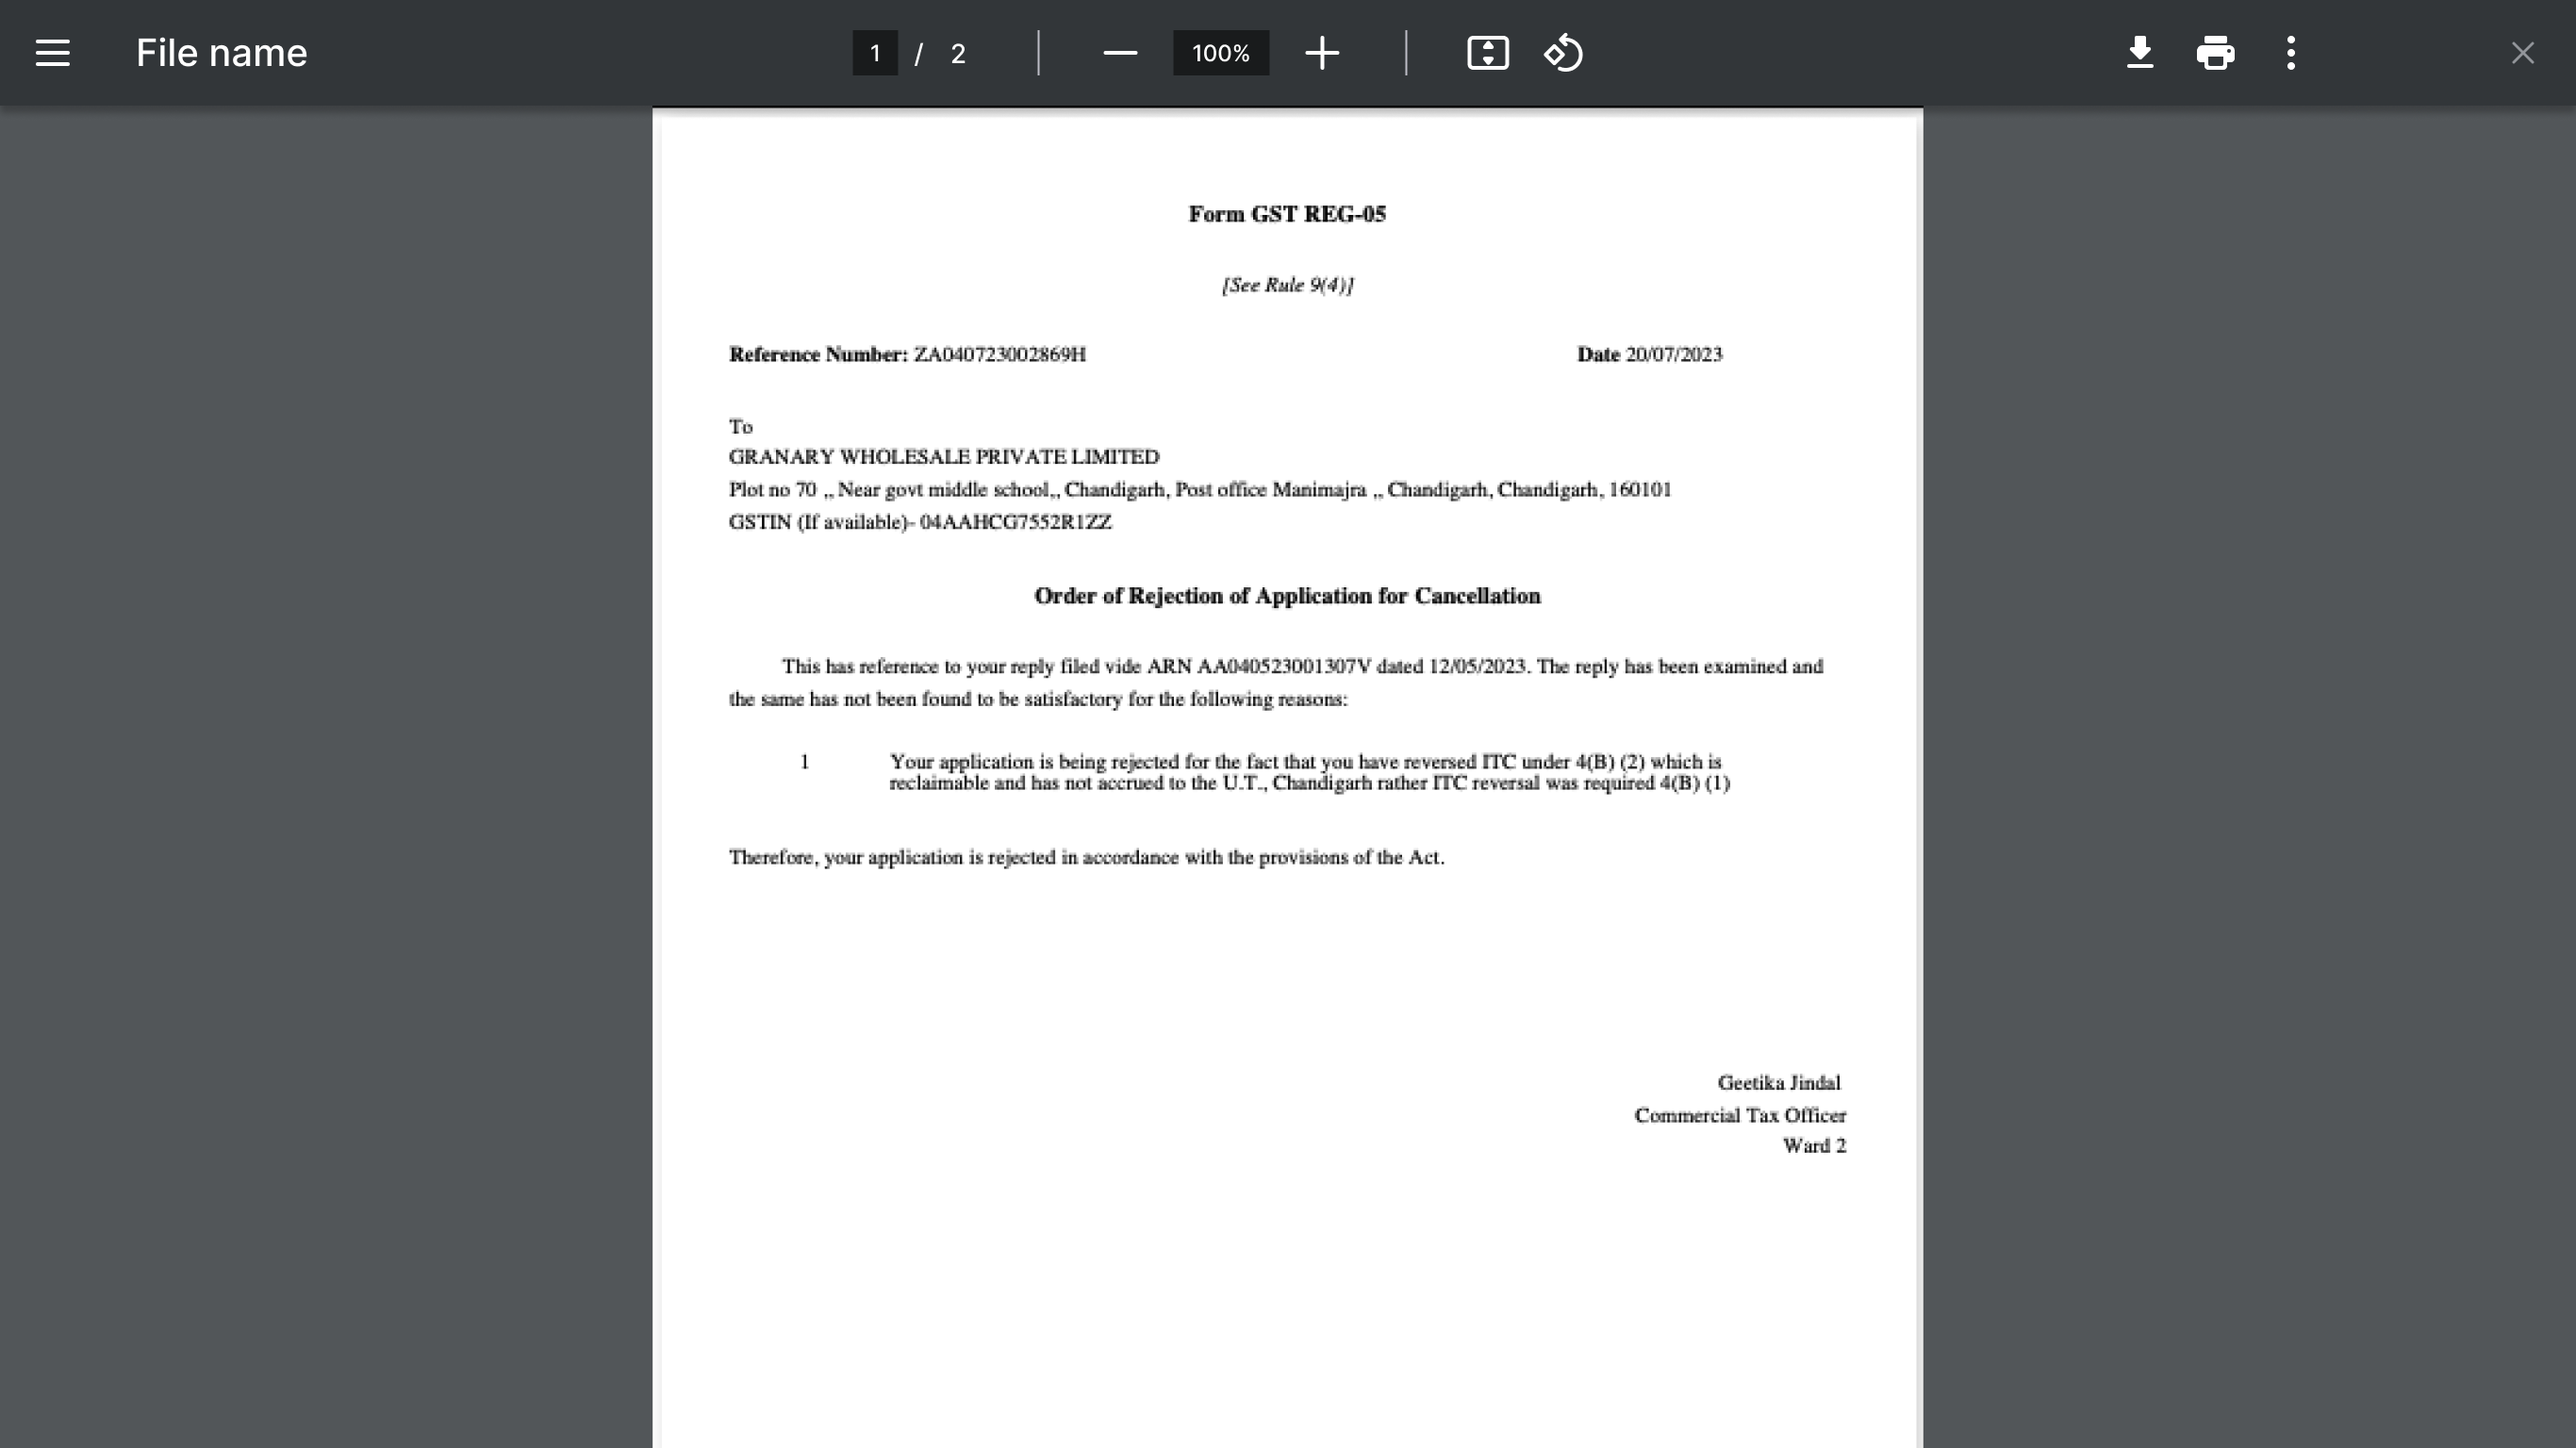
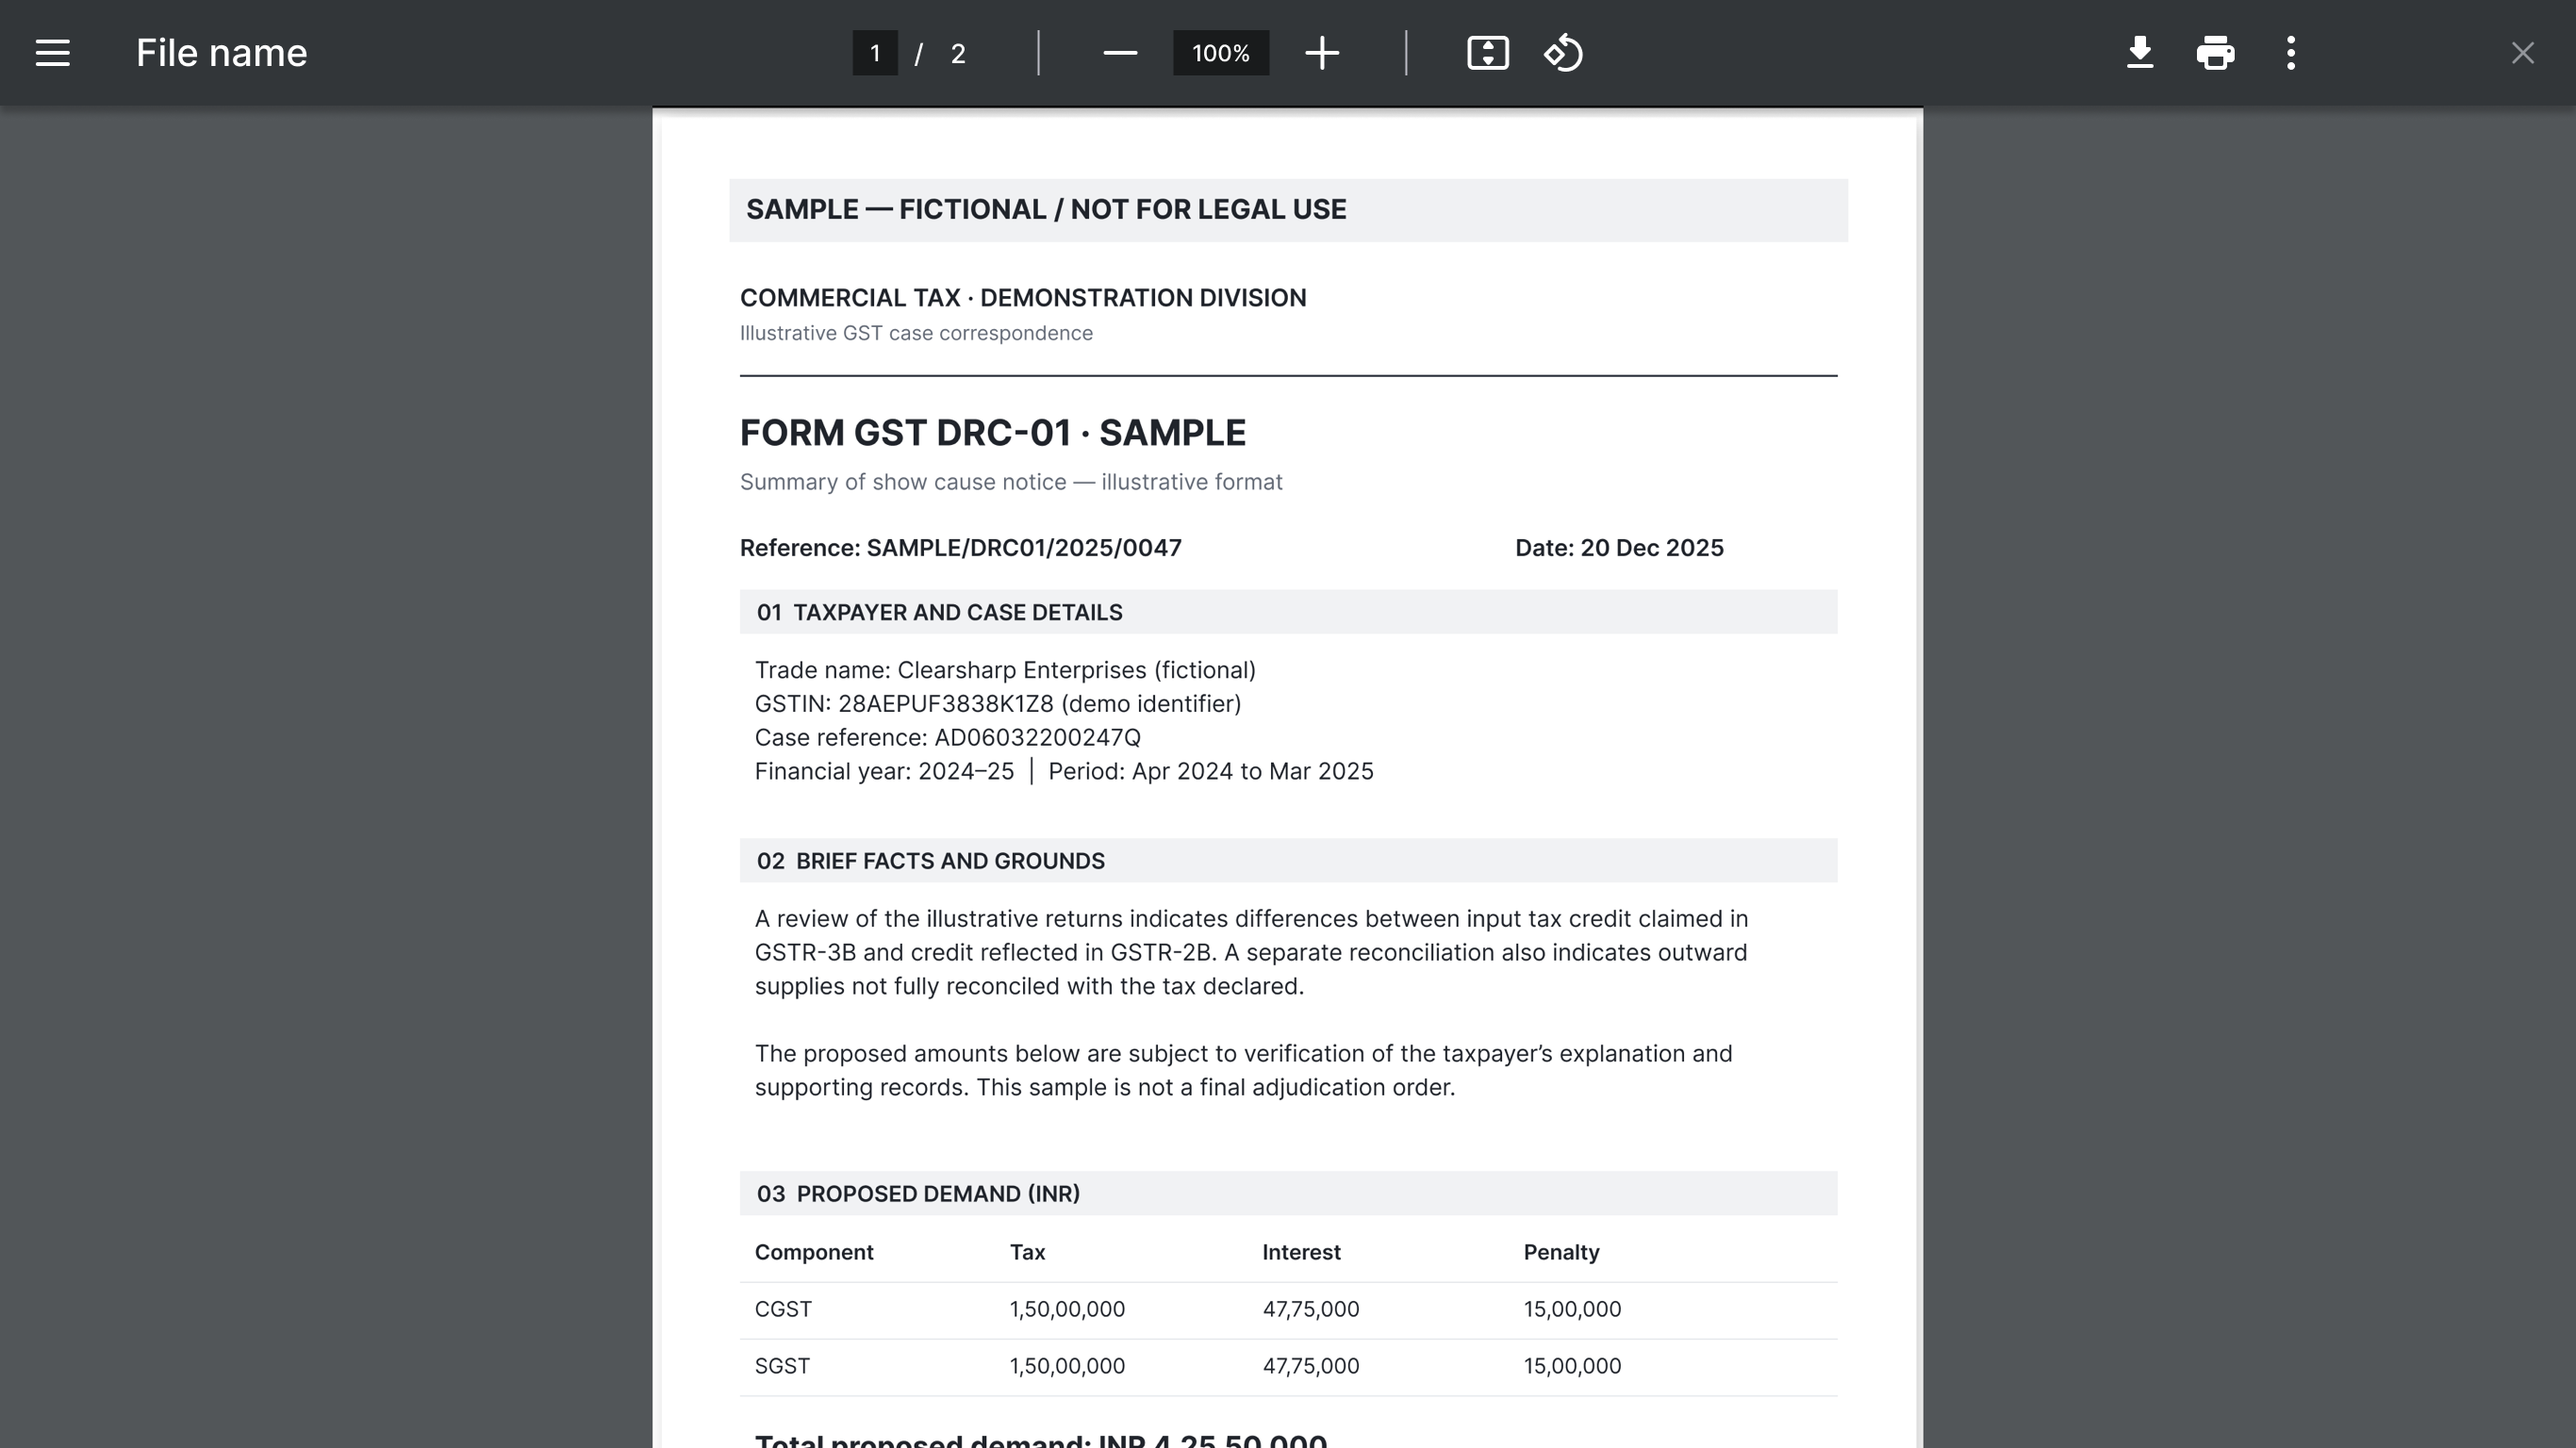
Notice Tracker: animated placement states in lightbox, DRC-01 sample PDF, drop placement tags
- Lightbox plays multi-state placements in place (one item per placement) with a layered cross-fade
- Captions use the full image width and balance when they wrap
- Remove status tags from the AI placement tiles; caption frames them as iterations
- Tile 5 verdict; AI sequence PDF frame now shows the 2025 sample DRC-01

diff --git a/src/components/site/image-lightbox.tsx b/src/components/site/image-lightbox.tsx
@@ -21,6 +21,11 @@ import { useEffect, useRef, useState, type ReactNode } from "react";
 const SWIPE_THRESHOLD = 60;
 const SWIPE_VERT_BIAS = 1.5;
 
+// How long each step of an animated frame stays on screen.
+const STEP_MS = 2800;
+
+export type FrameStep = { src: string; label: string; caption?: string };
+
 type ImageLightboxProps = {
   open: boolean;
   onOpenChange: (open: boolean) => void;
@@ -35,6 +40,11 @@ type ImageLightboxProps = {
   // step through. Falls back to the shared caption when a frame has none.
   captions?: string[];
   initialIndex?: number;
+  // Optional: some frames are a short flow (click, wait, read) rather
+  // than one screen. Give that frame a list of steps and it plays them in
+  // place, looping on its own. It still counts as one item for the
+  // arrows and dots.
+  steps?: (FrameStep[] | undefined)[];
   // Optional: short label used for the (visually hidden) dialog title.
   // Required for accessibility; falls back to "Image preview".
   title?: string;
@@ -51,6 +61,7 @@ export function ImageLightbox({
   caption: sharedCaption,
   captions,
   initialIndex = 0,
+  steps,
   title = "Image preview",
   closeOnOutsideClick = false,
 }: ImageLightboxProps) {
@@ -60,6 +71,29 @@ export function ImageLightbox({
   useEffect(() => {
     if (open) setIndex(initialIndex);
   }, [open, initialIndex]);
+
+  // Animated frames: which step is showing. Every time you land on a
+  // frame it starts again from step one and loops on its own. People who
+  // ask for reduced motion still see every step, just without the fade.
+  const frameSteps = steps?.[index];
+  //
+  // `prev` is the step that was showing before. It stays fully visible
+  // underneath while the new step fades in on top, so the swap never
+  // goes half see-through (that half-and-half moment read as a blink).
+  const [{ step, prev }, setSteps] = useState({ step: 0, prev: -1 });
+  const setStep = (next: (s: number) => number) =>
+    setSteps((c) => ({ step: next(c.step), prev: c.step }));
+  useEffect(() => {
+    setSteps({ step: 0, prev: -1 });
+  }, [index, open]);
+  useEffect(() => {
+    if (!open || !frameSteps || frameSteps.length < 2) return;
+    const t = window.setTimeout(
+      () => setStep((s) => (s + 1) % frameSteps.length),
+      STEP_MS,
+    );
+    return () => window.clearTimeout(t);
+  }, [open, frameSteps, step]);
 
   // Keyboard navigation. Escape is handled by Dialog itself.
   useEffect(() => {
@@ -105,7 +139,9 @@ export function ImageLightbox({
   };
 
   // The text under the image follows the frame you are on.
-  const caption = captions?.[index] ?? sharedCaption;
+  // On an animated frame it follows the step instead.
+  const caption =
+    frameSteps?.[step]?.caption ?? captions?.[index] ?? sharedCaption;
 
   const hasFrames = frames.length > 0;
   const multiFrame = frames.length > 1;
@@ -169,6 +205,34 @@ export function ImageLightbox({
           >
             {node ? (
               <div className="w-full">{node}</div>
+            ) : frameSteps && frameSteps.length > 1 ? (
+              /* All steps are stacked on top of each other, so there is no
+                 reload between them. The new step fades in on top of the
+                 old one, which stays solid underneath; every other step
+                 hides instantly behind them. The first one sits in the
+                 normal flow and sets the height. */
+              <div key={frames[index]} className="relative">
+                {frameSteps.map((st, i) => (
+                  /* eslint-disable-next-line @next/next/no-img-element */
+                  <img
+                    key={st.src}
+                    src={st.src}
+                    alt={i === step ? `${title}: ${st.label}` : ""}
+                    aria-hidden={i !== step}
+                    draggable={false}
+                    className={`block w-full h-auto select-none ${
+                      i === 0 ? "relative" : "absolute inset-0"
+                    } ${
+                      i === step
+                        ? "z-[2] opacity-100 transition-opacity duration-700 ease-in-out motion-reduce:transition-none"
+                        : i === prev
+                          ? "z-[1] opacity-100"
+                          : "z-0 opacity-0"
+                    }`}
+                    style={{ margin: 0 }}
+                  />
+                ))}
+              </div>
             ) : hasFrames ? (
               /* eslint-disable-next-line @next/next/no-img-element */
               <img
@@ -189,7 +253,7 @@ export function ImageLightbox({
           {/* Caption sits under the card on the dim backdrop. */}
           {caption && (
             <p
-              className="text-white/85 text-[13px] md:text-[14px] text-center leading-relaxed max-w-2xl"
+              className="text-white/85 text-[13px] md:text-[14px] text-center leading-relaxed w-full text-balance"
               style={{ margin: 0 }}
             >
               {caption}

diff --git a/src/components/case-study/placement-schematics.tsx b/src/components/case-study/placement-schematics.tsx
@@ -2,7 +2,7 @@
 
 import { useState } from "react";
 import { Sparkles } from "lucide-react";
-import { StatusBadge, type IterationStatus } from "@/components/case-study/status-badge";
+import { type IterationStatus } from "@/components/case-study/status-badge";
 import { ImageLightbox } from "@/components/site/image-lightbox";
 
 // Five places the AI reading could live, drawn as small layout sketches.
@@ -13,10 +13,9 @@ import { ImageLightbox } from "@/components/site/image-lightbox";
 // Each tile opens the real screen in the lightbox. Hover lifts the tile
 // (a little larger, a deeper shadow) so it reads as clickable.
 //
-// Some placements were a flow, not one screen (click, wait, read). The
-// lightbox holds every screen of every placement in order, so its arrows
-// step through those states, and the line under the image says what each
-// one shows ("Behind a button, step 2 of 3. ...").
+// Some placements were a flow, not one screen (click, wait, read). In the
+// lightbox those play in place as a looping animation with a step strip
+// under them; the arrows move between the five placements only.
 //
 // Palette (matched to the Figma frame): neutral grey wireframes. A tile
 // marked shipped turns warm (none of these five did: the shipped Clear AI
@@ -138,20 +137,19 @@ export function PlacementSchematics({
 }) {
   const [openAt, setOpenAt] = useState<number | null>(null);
 
-  // One flat list of every screen, so the lightbox arrows walk through the
-  // placements and their states in order. `start` is where each tile's
-  // first screen sits in that list.
-  const frames = placements.flatMap((p) =>
-    p.screens.map((s, i) => ({
-      src: s.src,
-      caption:
-        p.screens.length > 1
-          ? `${p.label}, step ${i + 1} of ${p.screens.length}. ${s.caption}`
-          : `${p.label}. ${s.caption}`,
-    })),
-  );
-  const start = placements.map((_, i) =>
-    placements.slice(0, i).reduce((n, p) => n + p.screens.length, 0),
+  // One lightbox item per placement. A placement that was a flow (click,
+  // wait, read) plays its screens in place as a short animation, rather
+  // than each state showing up as a separate item.
+  const frames = placements.map((p) => p.screens[0].src);
+  const captions = placements.map((p) => `${p.label}. ${p.screens[0].caption}`);
+  const steps = placements.map((p) =>
+    p.screens.length > 1
+      ? p.screens.map((s, i) => ({
+          src: s.src,
+          label: s.step ?? `Step ${i + 1}`,
+          caption: `${p.label}, ${(s.step ?? `step ${i + 1}`).toLowerCase()}. ${s.caption}`,
+        }))
+      : undefined,
   );
 
   return (
@@ -163,7 +161,7 @@ export function PlacementSchematics({
             <div key={p.label}>
               <button
                 type="button"
-                onClick={() => setOpenAt(start[i])}
+                onClick={() => setOpenAt(i)}
                 aria-label={`Open the real screen: ${p.screens[0].alt}`}
                 className={`block w-full cursor-zoom-in rounded-lg transition-[transform,box-shadow,background-color] duration-200 ease-out hover:-translate-y-0.5 hover:scale-[1.04] hover:shadow-[0_10px_24px_-6px_rgba(31,31,30,0.18),0_2px_6px_rgba(31,31,30,0.06)] focus-visible:-translate-y-0.5 focus-visible:scale-[1.04] focus-visible:shadow-[0_10px_24px_-6px_rgba(31,31,30,0.18)] motion-reduce:hover:translate-y-0 motion-reduce:hover:scale-100 ${
                   shipped
@@ -181,8 +179,6 @@ export function PlacementSchematics({
                 <p className="text-[13px] leading-[1.45] text-[#6B6B68]" style={{ margin: 0 }}>
                   {p.verdict}
                 </p>
-                {/* Status sits under the verdict, as in Figma. */}
-                <StatusBadge status={p.status} />
               </div>
             </div>
           );
@@ -196,8 +192,9 @@ export function PlacementSchematics({
       <ImageLightbox
         open={openAt !== null}
         onOpenChange={(o) => !o && setOpenAt(null)}
-        frames={frames.map((f) => f.src)}
-        captions={frames.map((f) => f.caption)}
+        frames={frames}
+        captions={captions}
+        steps={steps}
         initialIndex={openAt ?? 0}
         caption={caption}
         title="Five placements for the AI reading"

diff --git a/src/app/work/notice-tracker/page.tsx b/src/app/work/notice-tracker/page.tsx
@@ -222,7 +222,7 @@ const PLACEMENTS = [
     layout: "panelTop",
     label: "Summary on top",
     status: "notShipped",
-    verdict: "Summary and reasons, the first thing in every case.",
+    verdict: "It pushed the stages, the actual work, down the page.",
     screens: [
       {
         src: "/work/notice-tracker/v3/caseview-5-shipped-clear-ai-panel.webp",
@@ -813,7 +813,7 @@ export default function NoticeTrackerPage() {
 
           <PlacementSchematics
             placements={[...PLACEMENTS]}
-            caption="Five places for the same AI reading. Click any sketch to see the real screen."
+            caption="Five iterations on where the AI reading should live. Click any sketch to see the real screen."
           />
 
           <Call

diff --git a/src/components/case-study/ai-extraction-sequence.tsx b/src/components/case-study/ai-extraction-sequence.tsx
@@ -117,7 +117,7 @@ export function AIExtractionSequence() {
         >
           <FullBleedImage
             src="/work/notice-tracker/ai-pdf.png"
-            alt="Raw government PDF, Form GST REG-05"
+            alt="Raw government PDF, Form GST DRC-01"
           />
         </motion.div>
 
